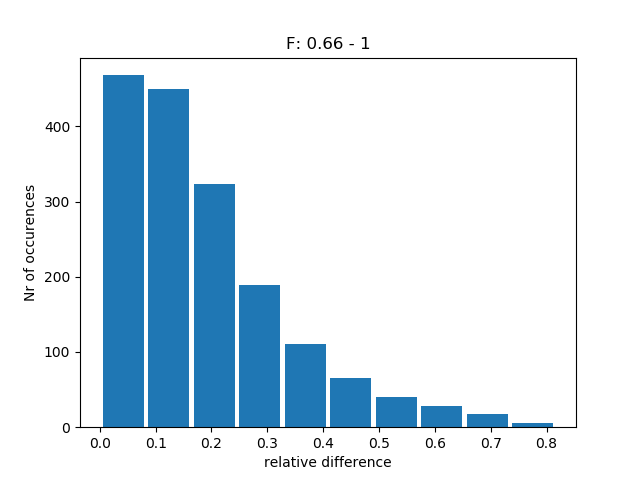
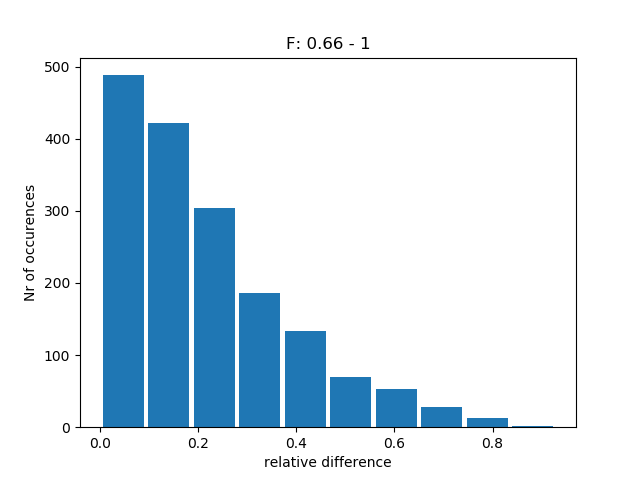
Generalized day choice in test run

diff --git a/SWARM/general_SWARMreader.py b/SWARM/general_SWARMreader.py
@@ -113,10 +113,11 @@ class GenSWARMread(SWARMprocess):
 
 
 if __name__ == "__main__":
+    day = "29"
     data_path = "/home/" + usrname +  "/Documents/Master/Swarm_Data"
-    cdfA_path = data_path + "/Sat_A/SW_OPER_EFIA_LP_1B_20131221T000000_20131221T235959_0501.CDF/SW_OPER_EFIA_LP_1B_20131221T000000_20131221T235959_0501_MDR_EFI_LP.cdf"
-    cdfB_path = data_path + "/Sat_B/SW_OPER_EFIB_LP_1B_20131221T000000_20131221T235959_0501.CDF/SW_OPER_EFIB_LP_1B_20131221T000000_20131221T235959_0501_MDR_EFI_LP.cdf"
-    cdfC_path = data_path + "/Sat_C/SW_OPER_EFIC_LP_1B_20131221T000000_20131221T235959_0501.CDF/SW_OPER_EFIC_LP_1B_20131221T000000_20131221T235959_0501_MDR_EFI_LP.cdf"
+    cdfA_path = data_path + "/Sat_A/SW_OPER_EFIA_LP_1B_201312"+day+"T000000_201312"+day+"T235959_0501.CDF/SW_OPER_EFIA_LP_1B_201312"+day+"T000000_201312"+day+"T235959_0501_MDR_EFI_LP.cdf"
+    cdfB_path = data_path + "/Sat_B/SW_OPER_EFIB_LP_1B_201312"+day+"T000000_201312"+day+"T235959_0501.CDF/SW_OPER_EFIB_LP_1B_201312"+day+"T000000_201312"+day+"T235959_0501_MDR_EFI_LP.cdf"
+    cdfC_path = data_path + "/Sat_C/SW_OPER_EFIC_LP_1B_201312"+day+"T000000_201312"+day+"T235959_0501.CDF/SW_OPER_EFIC_LP_1B_201312"+day+"T000000_201312"+day+"T235959_0501_MDR_EFI_LP.cdf"
     object = GenSWARMread(cdfA_path, cdfB_path, cdfC_path)
     hists, bins = object.histmake(minfreq = 0, maxfreq = 0.33)
     BA_hist1 = hists[0]
